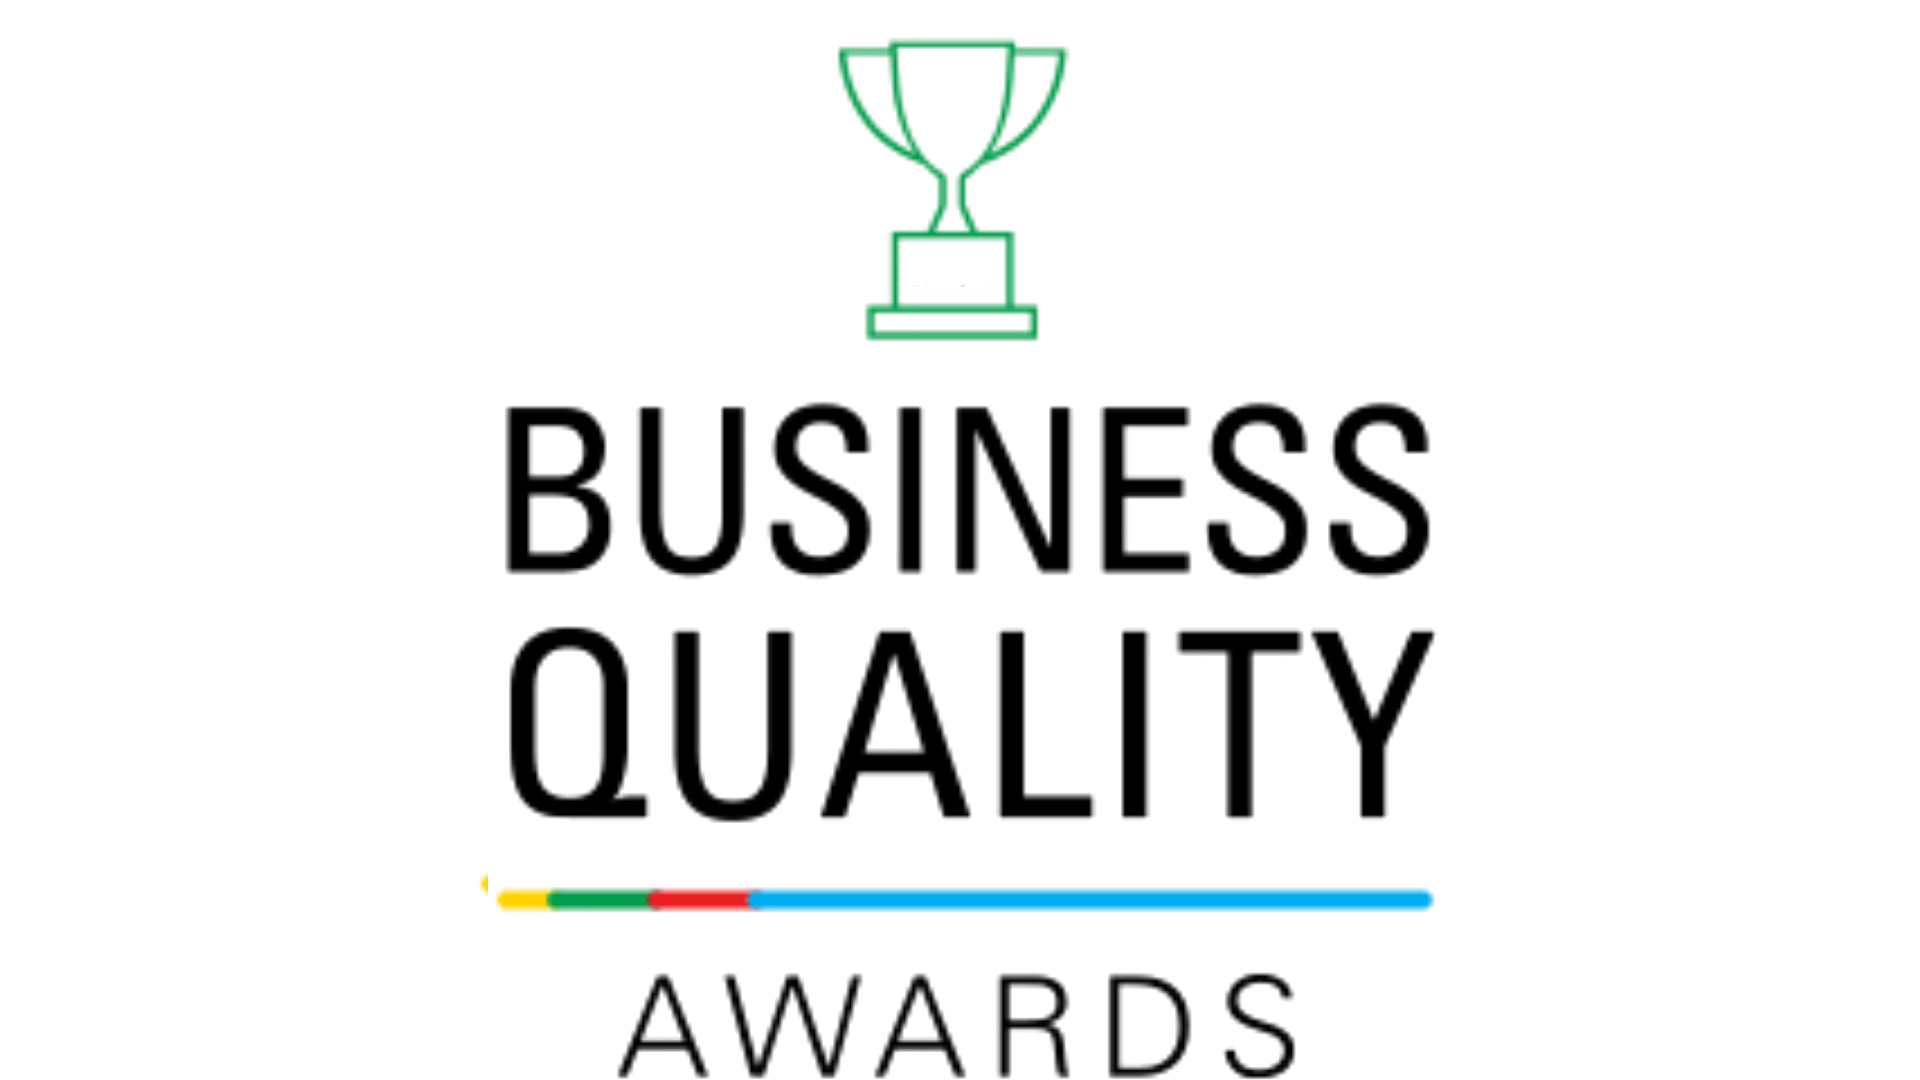
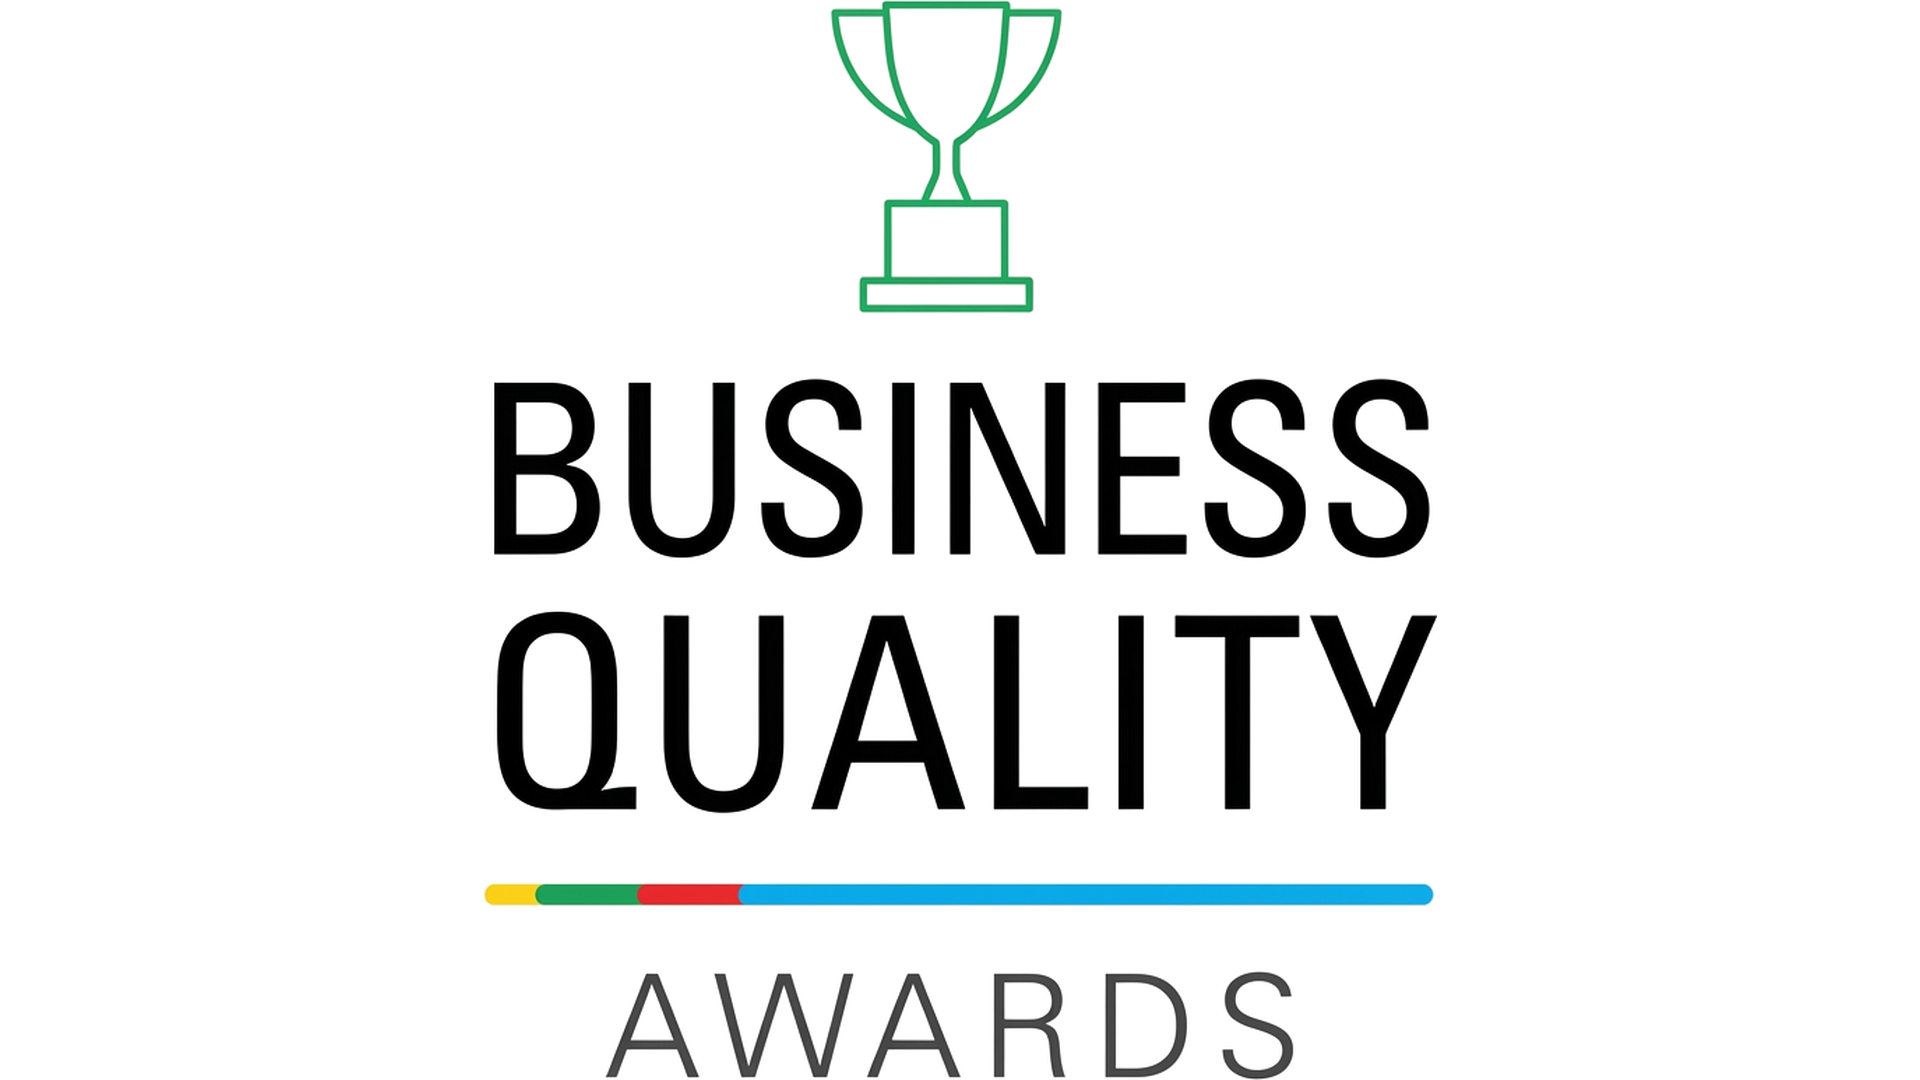
Sharper badges: high-res Business Quality Awards, vector TrustScore stars

diff --git a/Reconnect.dc.html b/Reconnect.dc.html
@@ -295,7 +295,7 @@
         <div class="reveal" style="display:flex;align-items:center;gap:28px;margin-top:38px;flex-wrap:wrap;">
           <img src="assets/badge-trustpilot.webp" alt="Feefo Service Rating, 5 stars from 743 reviews" style="height:104px;width:auto;object-fit:contain;" loading="lazy" decoding="async" width="640" height="360">
           <img src="assets/badge-feefo.webp" alt="Business Quality Awards" style="height:88px;width:auto;object-fit:contain;" loading="lazy" decoding="async" width="640" height="360">
-          <div class="tp-score" style="display:flex;flex-direction:column;align-items:flex-start;gap:5px;font-family:Mulish,system-ui,sans-serif;"><span style="font-size:12.5px;color:#6B7280;line-height:1;">Current TrustScore</span><span style="display:flex;align-items:center;gap:9px;"><strong style="font-size:29px;font-weight:800;color:#191919;letter-spacing:-.02em;line-height:1;">4.3</strong><span style="display:flex;gap:3px;flex:none;"><span style="width:22px;height:22px;background:#00b67a;display:flex;align-items:center;justify-content:center;color:#fff;font-size:14px;line-height:1;">&#9733;</span><span style="width:22px;height:22px;background:#00b67a;display:flex;align-items:center;justify-content:center;color:#fff;font-size:14px;line-height:1;">&#9733;</span><span style="width:22px;height:22px;background:#00b67a;display:flex;align-items:center;justify-content:center;color:#fff;font-size:14px;line-height:1;">&#9733;</span><span style="width:22px;height:22px;background:#00b67a;display:flex;align-items:center;justify-content:center;color:#fff;font-size:14px;line-height:1;">&#9733;</span><span style="width:22px;height:22px;background:linear-gradient(90deg,#00b67a 30%,#dcdce6 30%);display:flex;align-items:center;justify-content:center;color:#fff;font-size:14px;line-height:1;">&#9733;</span></span></span><span style="font-size:13px;color:#4b4b4b;line-height:1;">517 reviews</span></div>
+          <div class="tp-score" style="display:flex;flex-direction:column;align-items:flex-start;gap:5px;font-family:Mulish,system-ui,sans-serif;"><span style="font-size:12.5px;color:#6B7280;line-height:1;">Current TrustScore</span><span style="display:flex;align-items:center;gap:9px;"><strong style="font-size:29px;font-weight:800;color:#191919;letter-spacing:-.02em;line-height:1;">4.3</strong><span style="display:flex;gap:3px;flex:none;"><span style="width:22px;height:22px;background:#00b67a;display:flex;align-items:center;justify-content:center;color:#fff;font-size:14px;line-height:1;"><svg viewBox="0 0 24 24" width="16" height="16" aria-hidden="true" style="display:block;"><path fill="#fff" d="M12 1.8l2.95 6.9 7.45.62-5.66 4.9 1.7 7.3L12 17.6l-6.44 3.92 1.7-7.3L1.6 9.32l7.45-.62z"/></svg></span><span style="width:22px;height:22px;background:#00b67a;display:flex;align-items:center;justify-content:center;color:#fff;font-size:14px;line-height:1;"><svg viewBox="0 0 24 24" width="16" height="16" aria-hidden="true" style="display:block;"><path fill="#fff" d="M12 1.8l2.95 6.9 7.45.62-5.66 4.9 1.7 7.3L12 17.6l-6.44 3.92 1.7-7.3L1.6 9.32l7.45-.62z"/></svg></span><span style="width:22px;height:22px;background:#00b67a;display:flex;align-items:center;justify-content:center;color:#fff;font-size:14px;line-height:1;"><svg viewBox="0 0 24 24" width="16" height="16" aria-hidden="true" style="display:block;"><path fill="#fff" d="M12 1.8l2.95 6.9 7.45.62-5.66 4.9 1.7 7.3L12 17.6l-6.44 3.92 1.7-7.3L1.6 9.32l7.45-.62z"/></svg></span><span style="width:22px;height:22px;background:#00b67a;display:flex;align-items:center;justify-content:center;color:#fff;font-size:14px;line-height:1;"><svg viewBox="0 0 24 24" width="16" height="16" aria-hidden="true" style="display:block;"><path fill="#fff" d="M12 1.8l2.95 6.9 7.45.62-5.66 4.9 1.7 7.3L12 17.6l-6.44 3.92 1.7-7.3L1.6 9.32l7.45-.62z"/></svg></span><span style="width:22px;height:22px;background:linear-gradient(90deg,#00b67a 30%,#dcdce6 30%);display:flex;align-items:center;justify-content:center;color:#fff;font-size:14px;line-height:1;"><svg viewBox="0 0 24 24" width="16" height="16" aria-hidden="true" style="display:block;"><path fill="#fff" d="M12 1.8l2.95 6.9 7.45.62-5.66 4.9 1.7 7.3L12 17.6l-6.44 3.92 1.7-7.3L1.6 9.32l7.45-.62z"/></svg></span></span></span><span style="font-size:13px;color:#4b4b4b;line-height:1;">517 reviews</span></div>
         </div>
 
         <a href="/contact" class="abtn reveal" style="display:inline-block;margin-top:38px;background:#1EBABB;color:#fff;padding:15px 30px;border-radius:8px;text-decoration:none;font-weight:700;font-size:15px;">Speak To An Adviser</a>

diff --git a/Home Page.dc.html b/Home Page.dc.html
@@ -400,7 +400,7 @@
         <div style="display:flex;align-items:center;gap:28px;margin-top:38px;flex-wrap:wrap;">
           <img src="assets/badge-trustpilot.webp" alt="Feefo Service Rating, 5 stars from 743 reviews" style="height:104px;width:auto;object-fit:contain;" loading="lazy" decoding="async" width="640" height="360">
           <img src="assets/badge-feefo.webp" alt="Business Quality Awards" style="height:88px;width:auto;object-fit:contain;" loading="lazy" decoding="async" width="640" height="360">
-          <div class="tp-score" style="display:flex;flex-direction:column;align-items:flex-start;gap:5px;font-family:Mulish,system-ui,sans-serif;"><span style="font-size:12.5px;color:#6B7280;line-height:1;">Current TrustScore</span><span style="display:flex;align-items:center;gap:9px;"><strong style="font-size:29px;font-weight:800;color:#191919;letter-spacing:-.02em;line-height:1;">4.3</strong><span style="display:flex;gap:3px;flex:none;"><span style="width:22px;height:22px;background:#00b67a;display:flex;align-items:center;justify-content:center;color:#fff;font-size:14px;line-height:1;">&#9733;</span><span style="width:22px;height:22px;background:#00b67a;display:flex;align-items:center;justify-content:center;color:#fff;font-size:14px;line-height:1;">&#9733;</span><span style="width:22px;height:22px;background:#00b67a;display:flex;align-items:center;justify-content:center;color:#fff;font-size:14px;line-height:1;">&#9733;</span><span style="width:22px;height:22px;background:#00b67a;display:flex;align-items:center;justify-content:center;color:#fff;font-size:14px;line-height:1;">&#9733;</span><span style="width:22px;height:22px;background:linear-gradient(90deg,#00b67a 30%,#dcdce6 30%);display:flex;align-items:center;justify-content:center;color:#fff;font-size:14px;line-height:1;">&#9733;</span></span></span><span style="font-size:13px;color:#4b4b4b;line-height:1;">517 reviews</span></div>
+          <div class="tp-score" style="display:flex;flex-direction:column;align-items:flex-start;gap:5px;font-family:Mulish,system-ui,sans-serif;"><span style="font-size:12.5px;color:#6B7280;line-height:1;">Current TrustScore</span><span style="display:flex;align-items:center;gap:9px;"><strong style="font-size:29px;font-weight:800;color:#191919;letter-spacing:-.02em;line-height:1;">4.3</strong><span style="display:flex;gap:3px;flex:none;"><span style="width:22px;height:22px;background:#00b67a;display:flex;align-items:center;justify-content:center;color:#fff;font-size:14px;line-height:1;"><svg viewBox="0 0 24 24" width="16" height="16" aria-hidden="true" style="display:block;"><path fill="#fff" d="M12 1.8l2.95 6.9 7.45.62-5.66 4.9 1.7 7.3L12 17.6l-6.44 3.92 1.7-7.3L1.6 9.32l7.45-.62z"/></svg></span><span style="width:22px;height:22px;background:#00b67a;display:flex;align-items:center;justify-content:center;color:#fff;font-size:14px;line-height:1;"><svg viewBox="0 0 24 24" width="16" height="16" aria-hidden="true" style="display:block;"><path fill="#fff" d="M12 1.8l2.95 6.9 7.45.62-5.66 4.9 1.7 7.3L12 17.6l-6.44 3.92 1.7-7.3L1.6 9.32l7.45-.62z"/></svg></span><span style="width:22px;height:22px;background:#00b67a;display:flex;align-items:center;justify-content:center;color:#fff;font-size:14px;line-height:1;"><svg viewBox="0 0 24 24" width="16" height="16" aria-hidden="true" style="display:block;"><path fill="#fff" d="M12 1.8l2.95 6.9 7.45.62-5.66 4.9 1.7 7.3L12 17.6l-6.44 3.92 1.7-7.3L1.6 9.32l7.45-.62z"/></svg></span><span style="width:22px;height:22px;background:#00b67a;display:flex;align-items:center;justify-content:center;color:#fff;font-size:14px;line-height:1;"><svg viewBox="0 0 24 24" width="16" height="16" aria-hidden="true" style="display:block;"><path fill="#fff" d="M12 1.8l2.95 6.9 7.45.62-5.66 4.9 1.7 7.3L12 17.6l-6.44 3.92 1.7-7.3L1.6 9.32l7.45-.62z"/></svg></span><span style="width:22px;height:22px;background:linear-gradient(90deg,#00b67a 30%,#dcdce6 30%);display:flex;align-items:center;justify-content:center;color:#fff;font-size:14px;line-height:1;"><svg viewBox="0 0 24 24" width="16" height="16" aria-hidden="true" style="display:block;"><path fill="#fff" d="M12 1.8l2.95 6.9 7.45.62-5.66 4.9 1.7 7.3L12 17.6l-6.44 3.92 1.7-7.3L1.6 9.32l7.45-.62z"/></svg></span></span></span><span style="font-size:13px;color:#4b4b4b;line-height:1;">517 reviews</span></div>
         </div>
 
         <a href="/about" style="display:inline-block;margin-top:38px;background:#1EBABB;color:#fff;padding:15px 30px;border-radius:8px;text-decoration:none;font-weight:700;font-size:15px;">More About Us</a>
